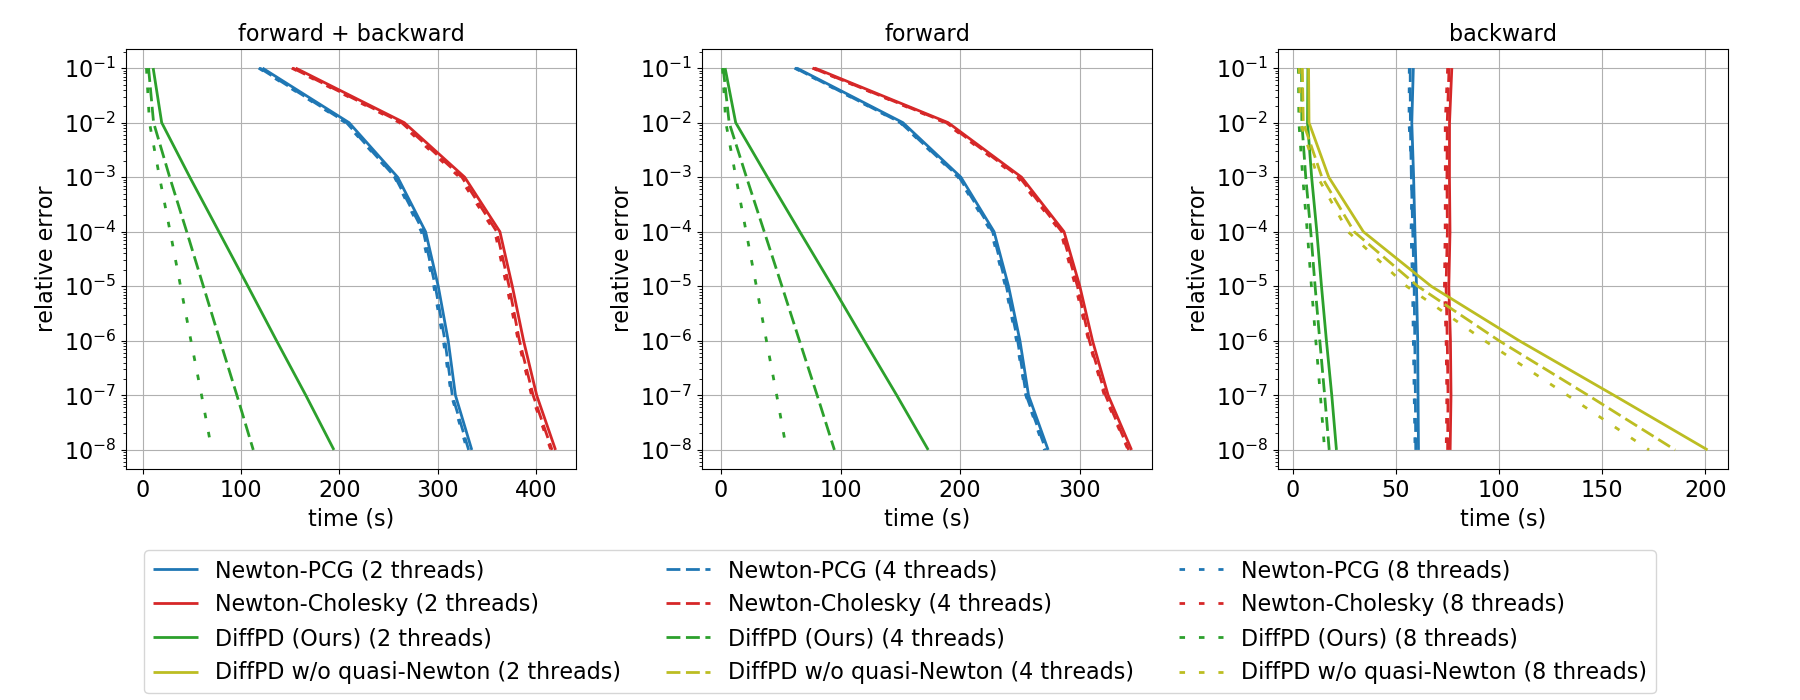
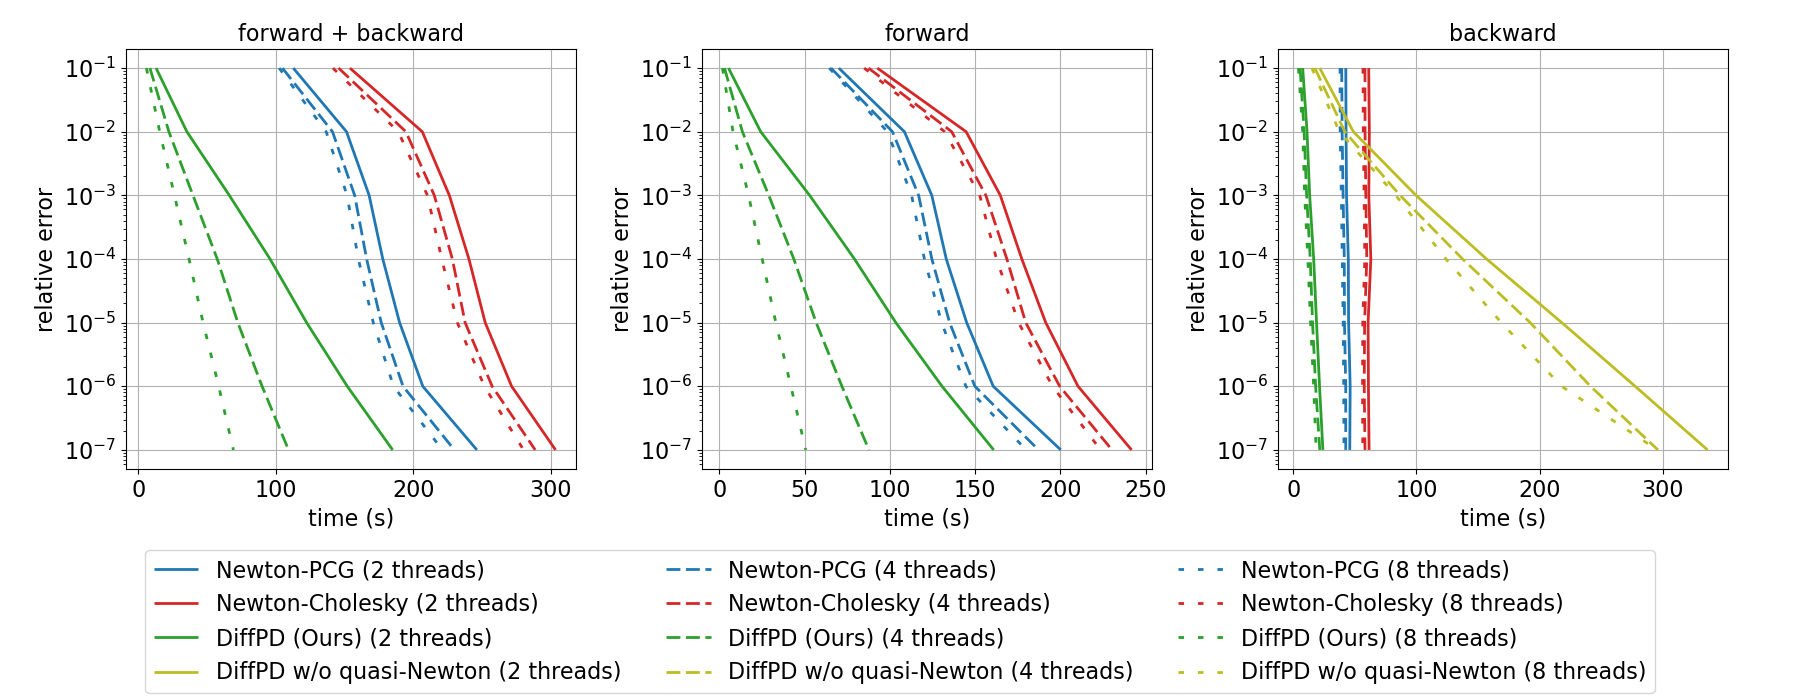
Updated benchmark pictures. [skip ci]

diff --git a/python/example/print_benchmark_3d_table.py b/python/example/print_benchmark_3d_table.py
@@ -7,7 +7,7 @@ import numpy as np
 import matplotlib.pyplot as plt
 
 from py_diff_pd.common.common import PrettyTabular
-from py_diff_pd.common.common import print_info
+from py_diff_pd.common.common import print_info, print_warning
 
 def transpose_list(l, row_num, col_num):
     assert len(l) == row_num * col_num
@@ -29,6 +29,23 @@ if __name__ == '__main__':
 
     folder = Path('benchmark_3d')
     rel_tols, forward_times, backward_times, losses, grads = pickle.load(open(folder / 'table.bin', 'rb'))
+    # Check out if there are any corrupted data.
+    max_rel_tol_nums = len(rel_tols)
+    for method in forward_times:
+        if len(forward_times[method]) < max_rel_tol_nums:
+            max_rel_tol_nums = len(forward_times[method])
+    for method in backward_times:
+        if len(backward_times[method]) < max_rel_tol_nums:
+            max_rel_tol_nums = len(backward_times[method])
+    for method in losses:
+        if len(losses[method]) < max_rel_tol_nums:
+            max_rel_tol_nums = len(losses[method])
+    for method in grads:
+        if len(grads[method]) < max_rel_tol_nums:
+            max_rel_tol_nums = len(grads[method])
+    if max_rel_tol_nums < len(rel_tols):
+        print_warning('Benchmark data corrupted. Showing the first {} only.'.format(max_rel_tol_nums))
+        rel_tols = rel_tols[:max_rel_tol_nums]
 
     thread_cts = [2, 4, 8]
     forward_backward_times = {}
